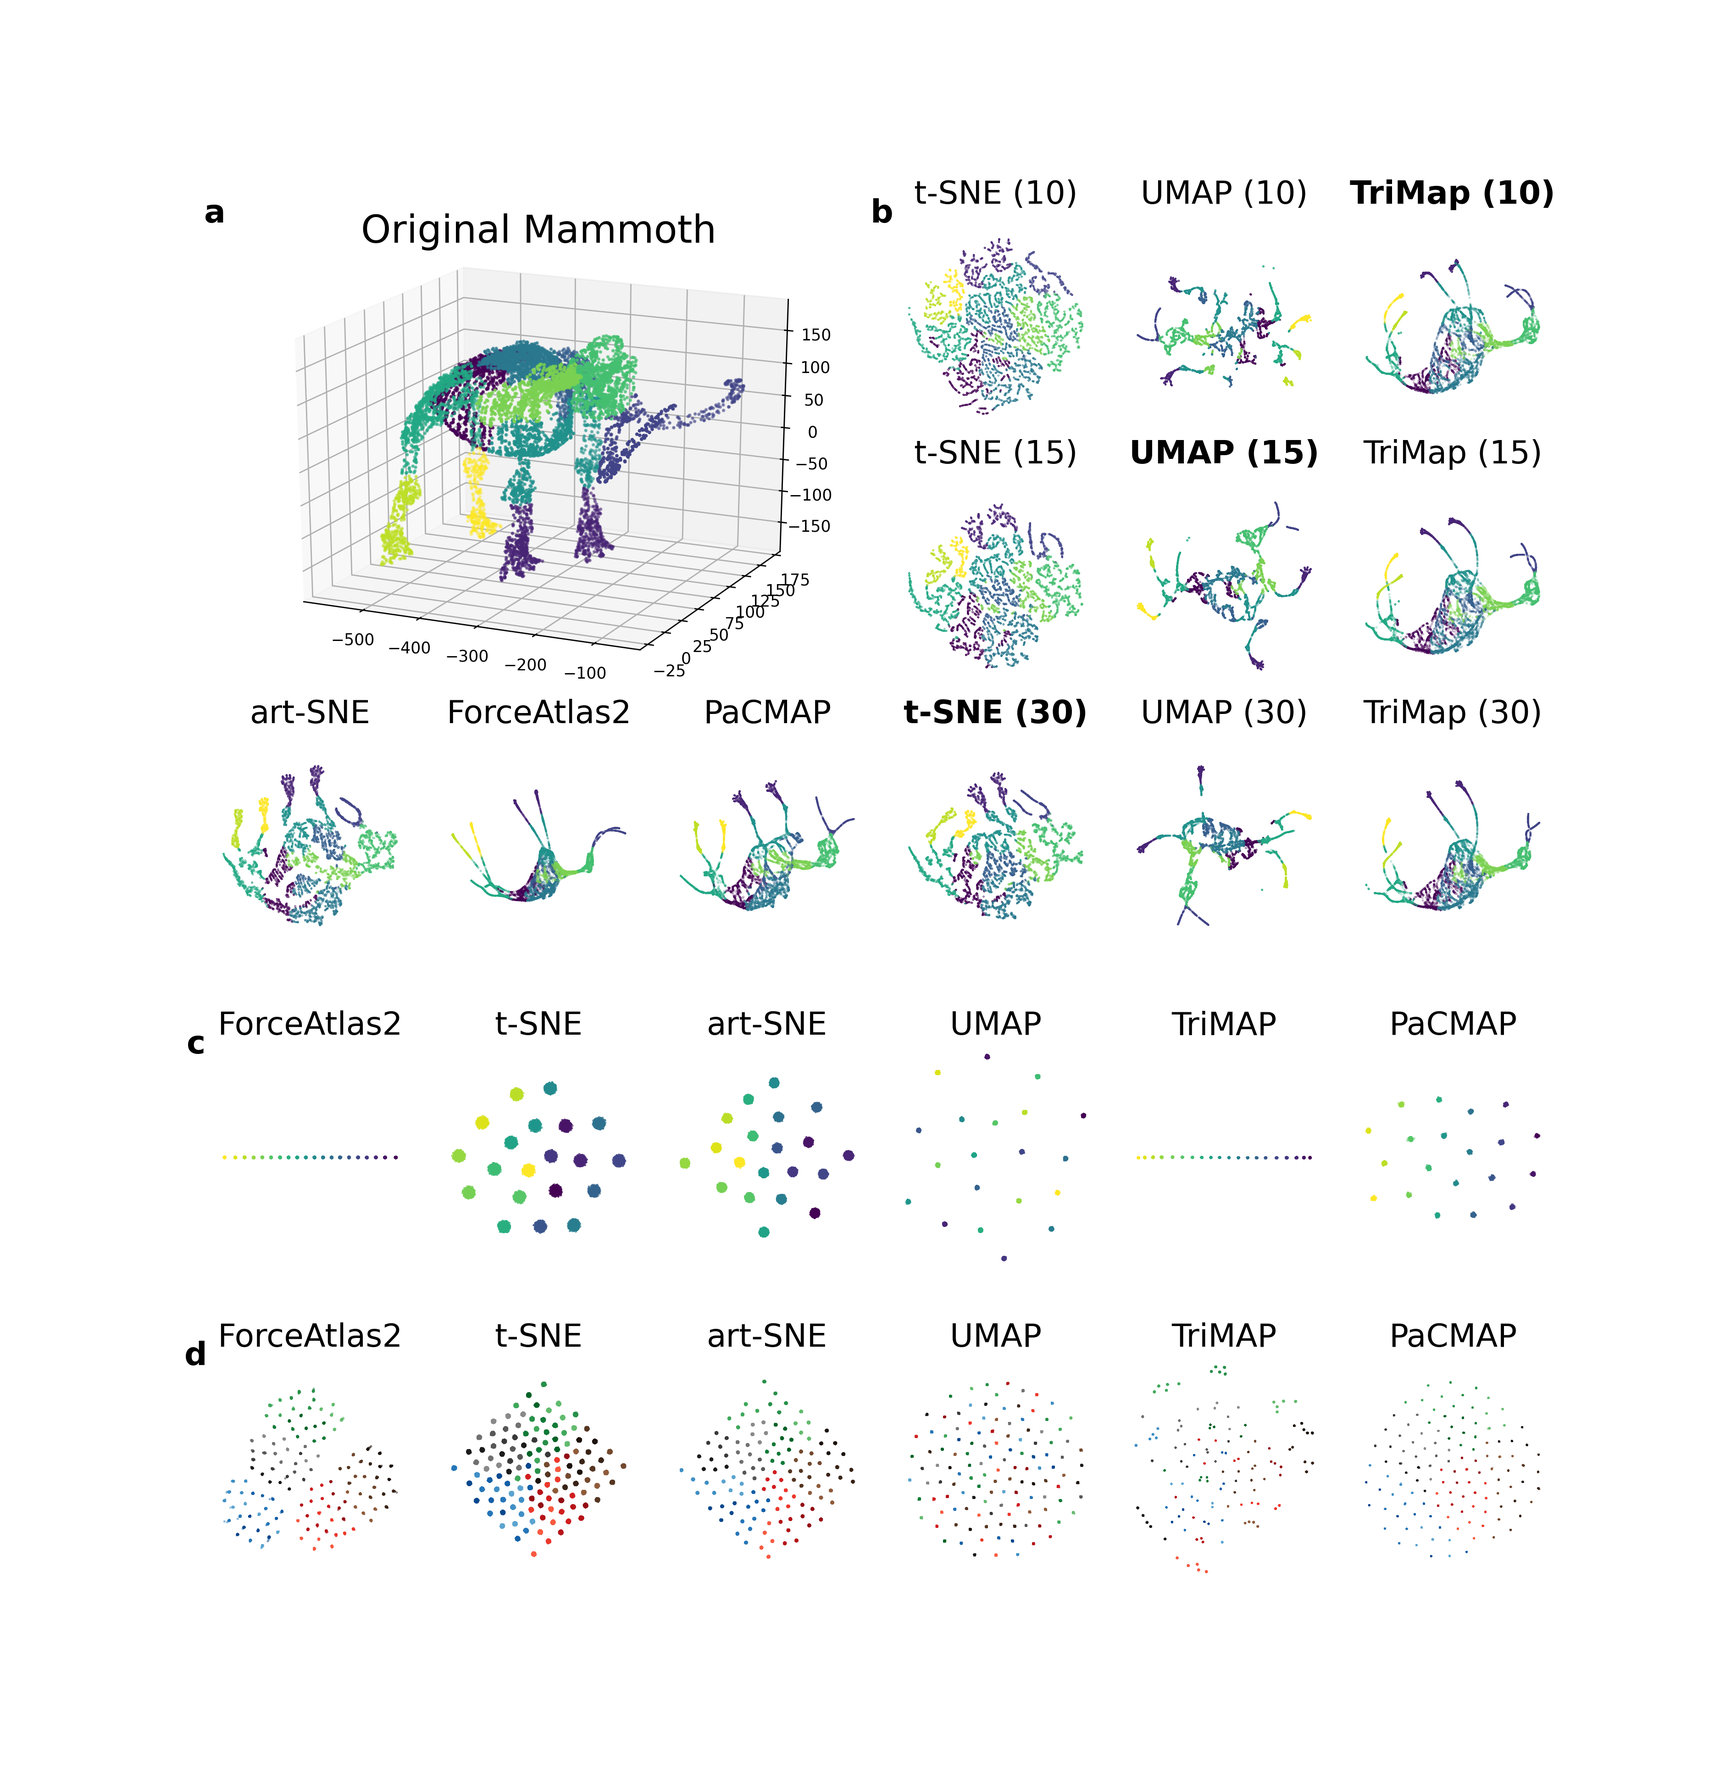
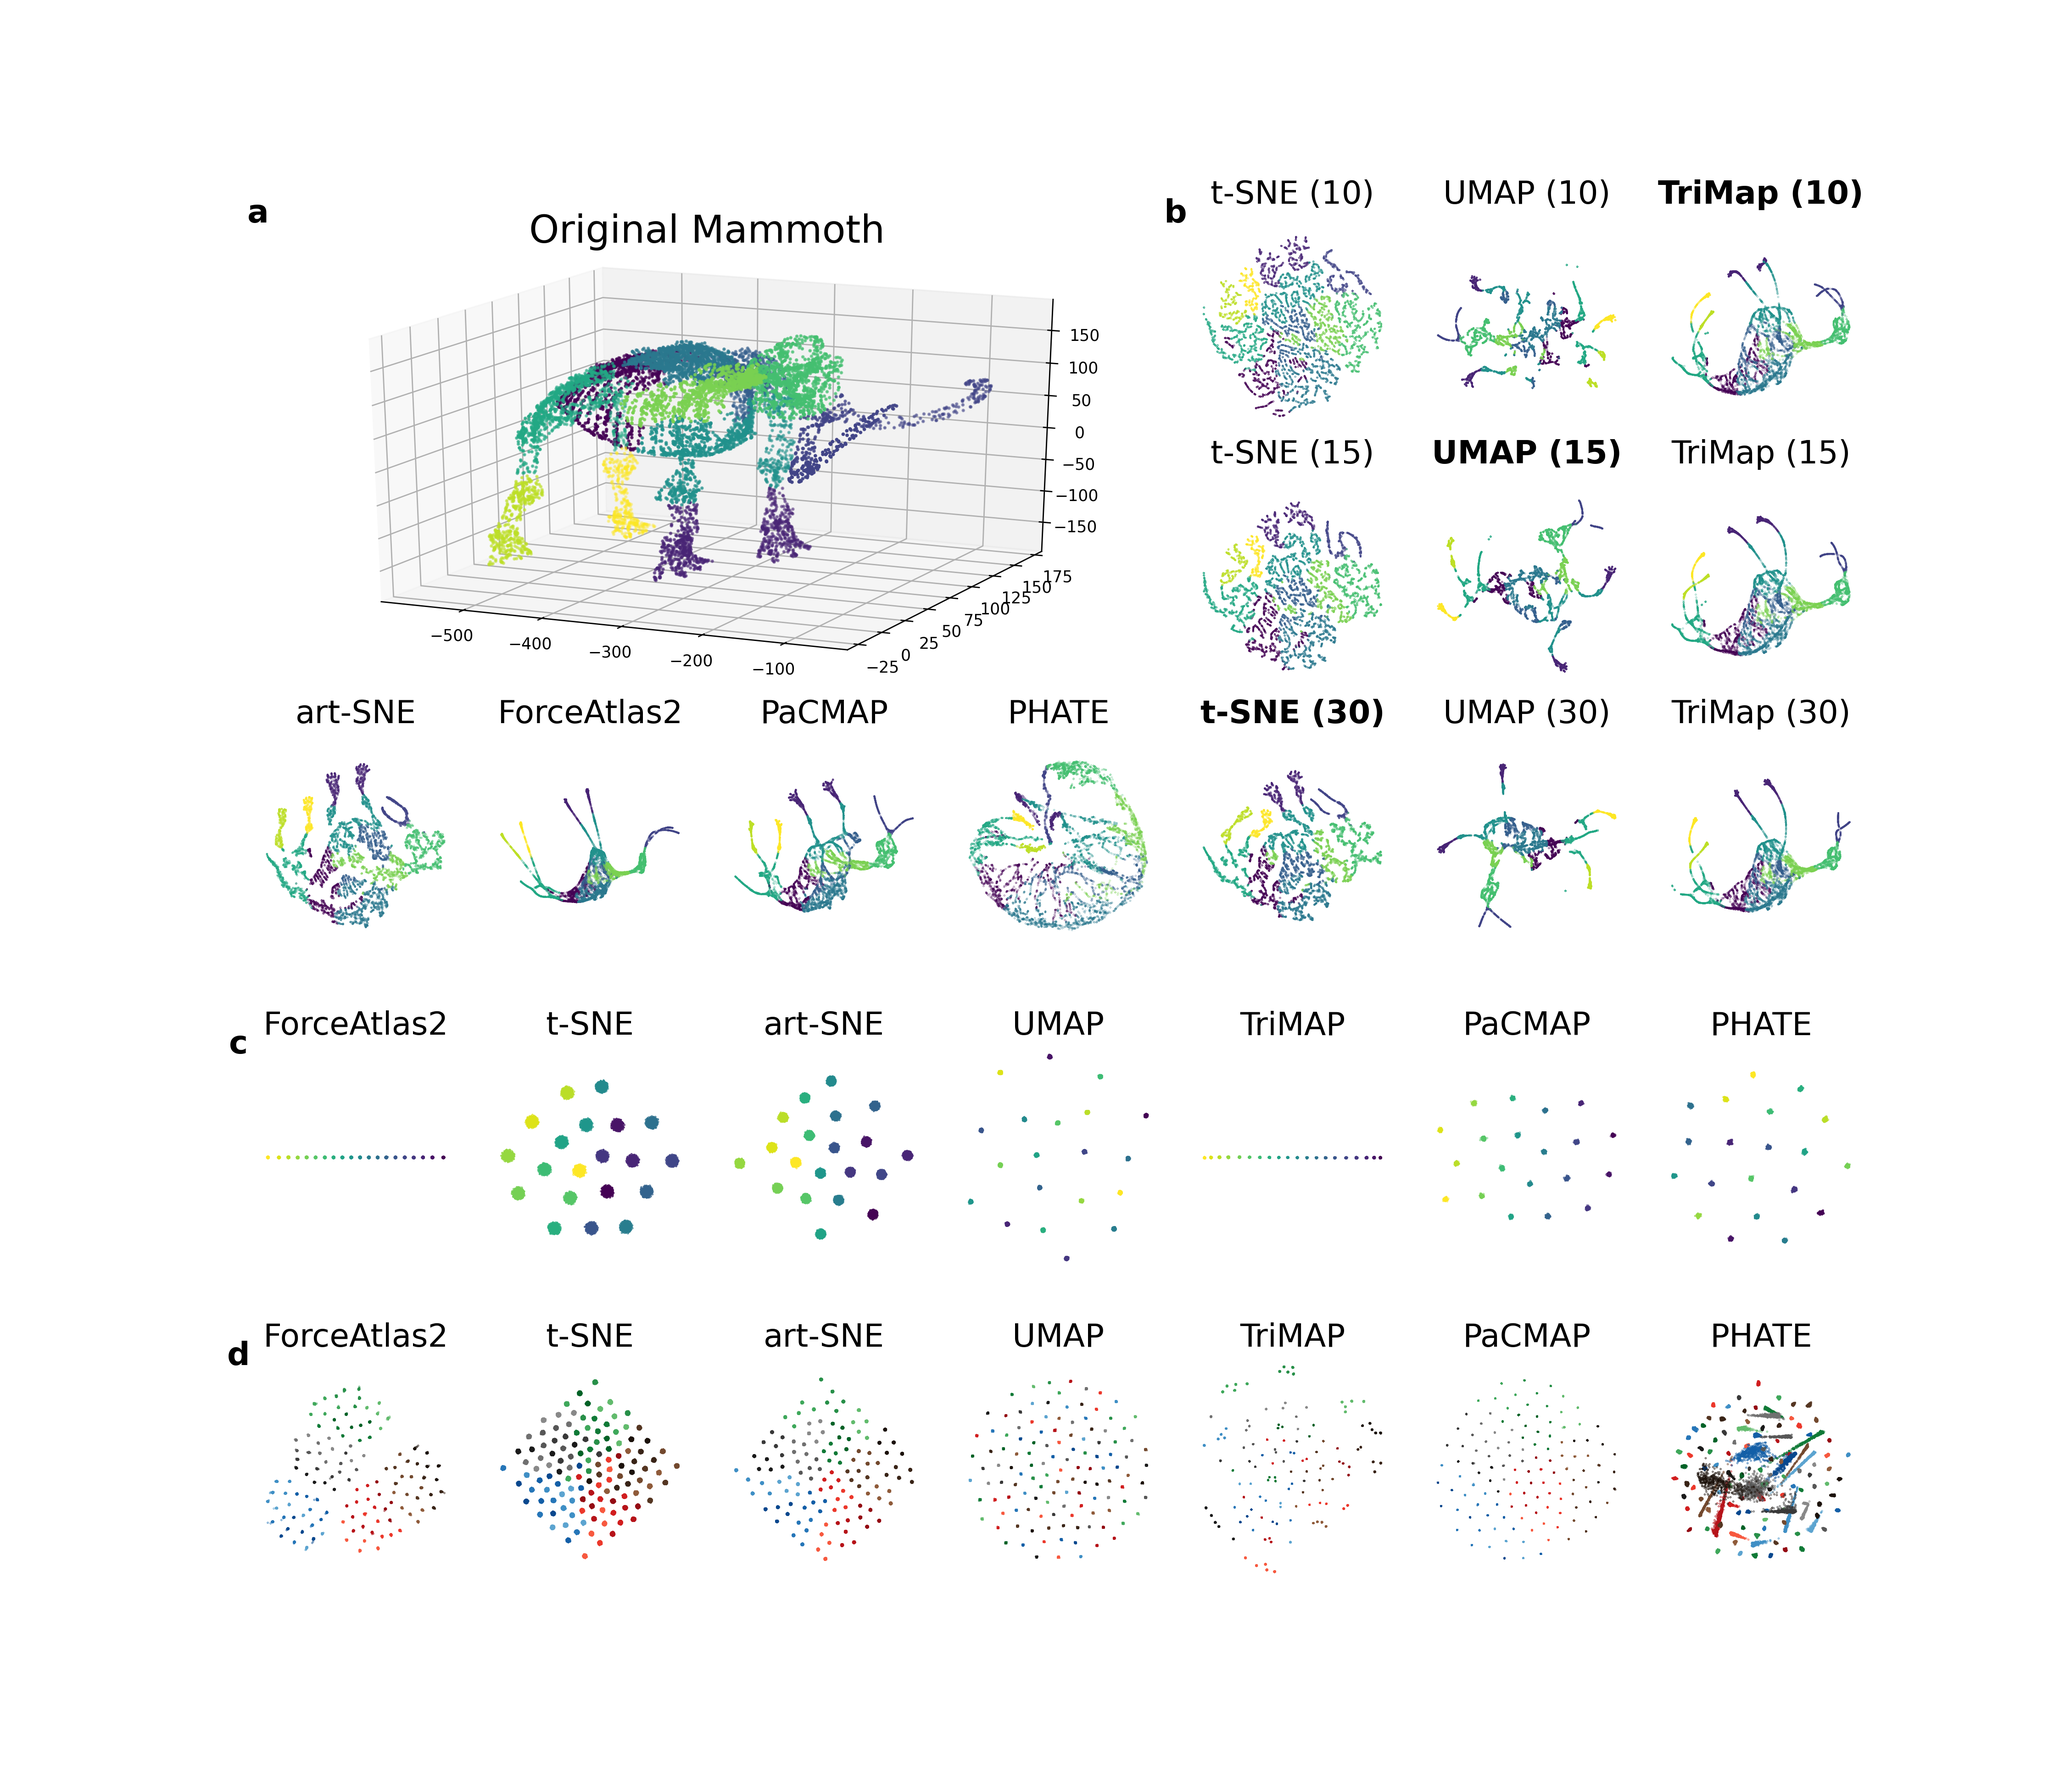
update image

diff --git a/figures/Figure4/mammoth_lineage_fig_gen.py b/figures/Figure4/mammoth_lineage_fig_gen.py
@@ -9,7 +9,7 @@ from matplotlib.colors import ListedColormap
 # matplotlib.rc('text', usetex=True)
 # matplotlib.rcParams['text.latex.preamble']=[r"\usepackage{amsmath}"]
 
-methods = ['t-SNE', 'LargeVis', 'UMAP', 'TriMap', 'PaCMAP']
+methods = ['t-SNE', 'LargeVis', 'UMAP', 'TriMap', 'PaCMAP', 'PHATE']
 results = np.load('./data_extra/pca_mammoth.npy')
 tsne = [np.load('../../output_extra/mammoth_t-SNE_perp10.npy')[0],
         np.load('../../output_extra/mammoth_t-SNE_perp15.npy')[0],
@@ -23,6 +23,7 @@ trimap = [np.load('../../output_extra/mammoth_TriMap_perp10.npy')[0],
 artsne = np.load('../../output/mammoth_art-SNE.npy')[0]
 fa2 = np.load('../../output/mammoth_ForceAtlas2.npy')[0]
 PaCMAP = np.load('../../output/mammoth_PaCMAP.npy')[0]
+PHATE = np.load('../../output/mammoth_PHATE.npy')[0]
 tsne_list = ['10', '15', '30']
 umap_list = ['10', '15', '30']
 trimap_list = ['10', '15', '30']
@@ -97,11 +98,11 @@ big_title = 24
 small_title = 20
 
 # General Figure
-fig = plt.figure(figsize=(15, 15.5), dpi=250)
-gs = fig.add_gridspec(7, 6, height_ratios=[3, 3, 3, 0.25, 3, 0.25, 3])
+fig = plt.figure(figsize=(18, 15.5), dpi=250)
+gs = fig.add_gridspec(7, 7, height_ratios=[3, 3, 3, 0.25, 3, 0.25, 3])
 
 # Mammoth
-ax3d = fig.add_subplot(gs[0:2, 0:3], projection='3d')
+ax3d = fig.add_subplot(gs[0:2, 0:4], projection='3d')
 X, y = data_prep('mammoth')
 
 ax3d.scatter(-X[:, 0], X[:, 2],
@@ -114,7 +115,7 @@ ax3d.title.set_fontsize(big_title)
 plt.draw()
 
 for i in range(3):
-    fax = fig.add_subplot(gs[i, 3])
+    fax = fig.add_subplot(gs[i, 4])
     mam = tsne[i]
     fax.axis('off')
     fax.set_aspect('equal', adjustable='datalim') # set aspect to equal
@@ -129,7 +130,7 @@ for i in range(3):
     if i == 0:
         fax.text(-0.1, 1, 'b', fontsize=20, weight='bold', ha='center', va='center', transform=fax.transAxes)
 
-    fax = fig.add_subplot(gs[i, 4])
+    fax = fig.add_subplot(gs[i, 5])
     mam = umap[i]
     fax.axis('off')
     fax.set_aspect('equal', adjustable='datalim') # set aspect to equal
@@ -140,7 +141,7 @@ for i in range(3):
         fax.set_title(f'UMAP ({umap_list[i]})', fontweight="bold")
     fax.title.set_fontsize(small_title)
 
-    fax = fig.add_subplot(gs[i, 5])
+    fax = fig.add_subplot(gs[i, 6])
     mam = trimap[i]
     fax.set_aspect('equal', adjustable='datalim') # set aspect to equal
     fax.scatter(mam[:, 0], mam[:, 1], s=0.02, c=y, cmap='viridis')
@@ -174,23 +175,30 @@ fax.scatter(x=mam[:, 0], y=mam[:, 1], s=0.02, c=y, cmap='viridis')
 fax.axis('off')
 fax.set_title('PaCMAP')
 fax.title.set_fontsize(small_title)
-# plt.tight_layout()
+
+fax = fig.add_subplot(gs[2, 3])
+mam = PHATE
+fax.set_aspect('equal', adjustable='datalim') # set aspect to equal
+fax.scatter(x=mam[:, 0], y=mam[:, 1], s=0.02, c=y, cmap='viridis')
+fax.axis('off')
+fax.set_title('PHATE')
+fax.title.set_fontsize(small_title)
 
 
 # Lineage
-X = np.load('/usr/xtmp/hyhuang/MNIST/lineage_dataset.npy', allow_pickle=True)
-y = np.load('/usr/xtmp/hyhuang/MNIST/lineage_label.npy', allow_pickle=True)
-Z_fa = np.load('/home/home1/hh219/Bio_PaCMAP/output/lineage_ForceAtlas2.npy', allow_pickle=True)[0]
-Z_ts = np.load('/home/home1/hh219/Bio_PaCMAP/output/lineage_t-SNE.npy', allow_pickle=True)[0]
-Z_arts = np.load('/home/home1/hh219/Bio_PaCMAP/output/lineage_art-SNE.npy', allow_pickle=True)[0]
-Z_um = np.load('/home/home1/hh219/Bio_PaCMAP/output/lineage_UMAP.npy', allow_pickle=True)[0]
-Z_tr = np.load('/home/home1/hh219/Bio_PaCMAP/output/lineage_TriMap.npy', allow_pickle=True)[0]
-Z_pc = np.load('/home/home1/hh219/Bio_PaCMAP/output/lineage_PaCMAP.npy', allow_pickle=True)[0]
-Zs = [Z_fa, Z_ts, Z_arts, Z_um, Z_tr, Z_pc]
-names = ['ForceAtlas2', 't-SNE', 'art-SNE', 'UMAP', 'TriMAP', 'PaCMAP']
-# fig, ax = plt.subplots(2, 3, figsize=(12, 8))
-# ax = ax.flatten()
-for i in range(6):
+X = np.load('../../data/lineage_dataset.npy', allow_pickle=True)
+y = np.load('../../data/lineage_label.npy', allow_pickle=True)
+Z_fa = np.load('../../output/lineage_ForceAtlas2.npy', allow_pickle=True)[0]
+Z_ts = np.load('../../output/lineage_t-SNE.npy', allow_pickle=True)[0]
+Z_arts = np.load('../../output/lineage_art-SNE.npy', allow_pickle=True)[0]
+Z_um = np.load('../../output/lineage_UMAP.npy', allow_pickle=True)[0]
+Z_tr = np.load('../../output/lineage_TriMap.npy', allow_pickle=True)[0]
+Z_pc = np.load('../../output/lineage_PaCMAP.npy', allow_pickle=True)[0]
+Z_ph = np.load('../../output/lineage_PHATE.npy', allow_pickle=True)[0]
+
+Zs = [Z_fa, Z_ts, Z_arts, Z_um, Z_tr, Z_pc, Z_ph]
+names = ['ForceAtlas2', 't-SNE', 'art-SNE', 'UMAP', 'TriMAP', 'PaCMAP', 'PHATE']
+for i in range(7):
     fax = fig.add_subplot(gs[4, i])
     fax.set_aspect('equal', adjustable='datalim') # set aspect to equal
     fax.scatter(Zs[i][:, 0], Zs[i][:, 1], c=y, cmap='viridis', s=0.06)
@@ -200,14 +208,17 @@ for i in range(6):
         fax.text(-0.1, 1, 'c', fontsize=20, weight='bold', ha='center', va='center', transform=fax.transAxes)
 
 # Hierarchical
-X = np.load('/usr/xtmp/hyhuang/MNIST/hierarchical_threelayer_dataset.npy', allow_pickle=True)
-y = np.load("/usr/xtmp/hyhuang/MNIST/hierarchical_threelayer_label.npy", allow_pickle=True)
-Z_fa = np.load('/home/home1/hh219/Bio_PaCMAP/output/hierarchical_three_ForceAtlas2.npy', allow_pickle=True)[0]
-Z_ts = np.load('/home/home1/hh219/Bio_PaCMAP/output/hierarchical_three_t-SNE.npy', allow_pickle=True)[0]
-Z_arts = np.load('/home/home1/hh219/Bio_PaCMAP/output/hierarchical_three_art-SNE.npy', allow_pickle=True)[0]
-Z_um = np.load('/home/home1/hh219/Bio_PaCMAP/output/hierarchical_three_UMAP.npy', allow_pickle=True)[0]
-Z_tr = np.load('/home/home1/hh219/Bio_PaCMAP/output/hierarchical_three_TriMap.npy', allow_pickle=True)[0]
-Z_pc = np.load('/home/home1/hh219/Bio_PaCMAP/output/hierarchical_three_PaCMAP.npy', allow_pickle=True)[0]
+X = np.load('../../data/hierarchical_threelayer_dataset.npy', allow_pickle=True)
+y = np.load("../../data/hierarchical_threelayer_label.npy", allow_pickle=True)
+Z_fa = np.load('../../output/hierarchical_three_ForceAtlas2.npy', allow_pickle=True)[0]
+Z_ts = np.load('../../output/hierarchical_three_t-SNE.npy', allow_pickle=True)[0]
+Z_arts = np.load('../../output/hierarchical_three_art-SNE.npy', allow_pickle=True)[0]
+Z_um = np.load('../../output/hierarchical_three_UMAP.npy', allow_pickle=True)[0]
+Z_tr = np.load('../../output/hierarchical_three_TriMap.npy', allow_pickle=True)[0]
+Z_pc = np.load('../../output/hierarchical_three_PaCMAP.npy', allow_pickle=True)[0]
+Z_ph = np.load('../../output/hierarchical_three_PHATE.npy', allow_pickle=True)[0]
+
+Zs = [Z_fa, Z_ts, Z_arts, Z_um, Z_tr, Z_pc, Z_ph]
 
 a = sns.color_palette("Reds", n_colors=10).as_hex()
 b = sns.color_palette("Blues", n_colors=10).as_hex()
@@ -226,9 +237,8 @@ for i in range(25):
         second_layer_clist.append(cm[i])
 second_cmap = ListedColormap(second_layer_clist)
 
-Zs = [Z_fa, Z_ts, Z_arts, Z_um, Z_tr, Z_pc]
 # names = ['ForceAtlas2', 't-SNE', 'art-SNE', 'UMAP', 'TriMAP', 'PaCMAP']
-for i in range(6):
+for i in range(7):
     fax = fig.add_subplot(gs[6, i])
     fax.set_aspect('equal', adjustable='datalim') # set aspect to equal
     fax.scatter(Zs[i][:, 0], Zs[i][:, 1], c=y, cmap=second_cmap, s=0.06)
